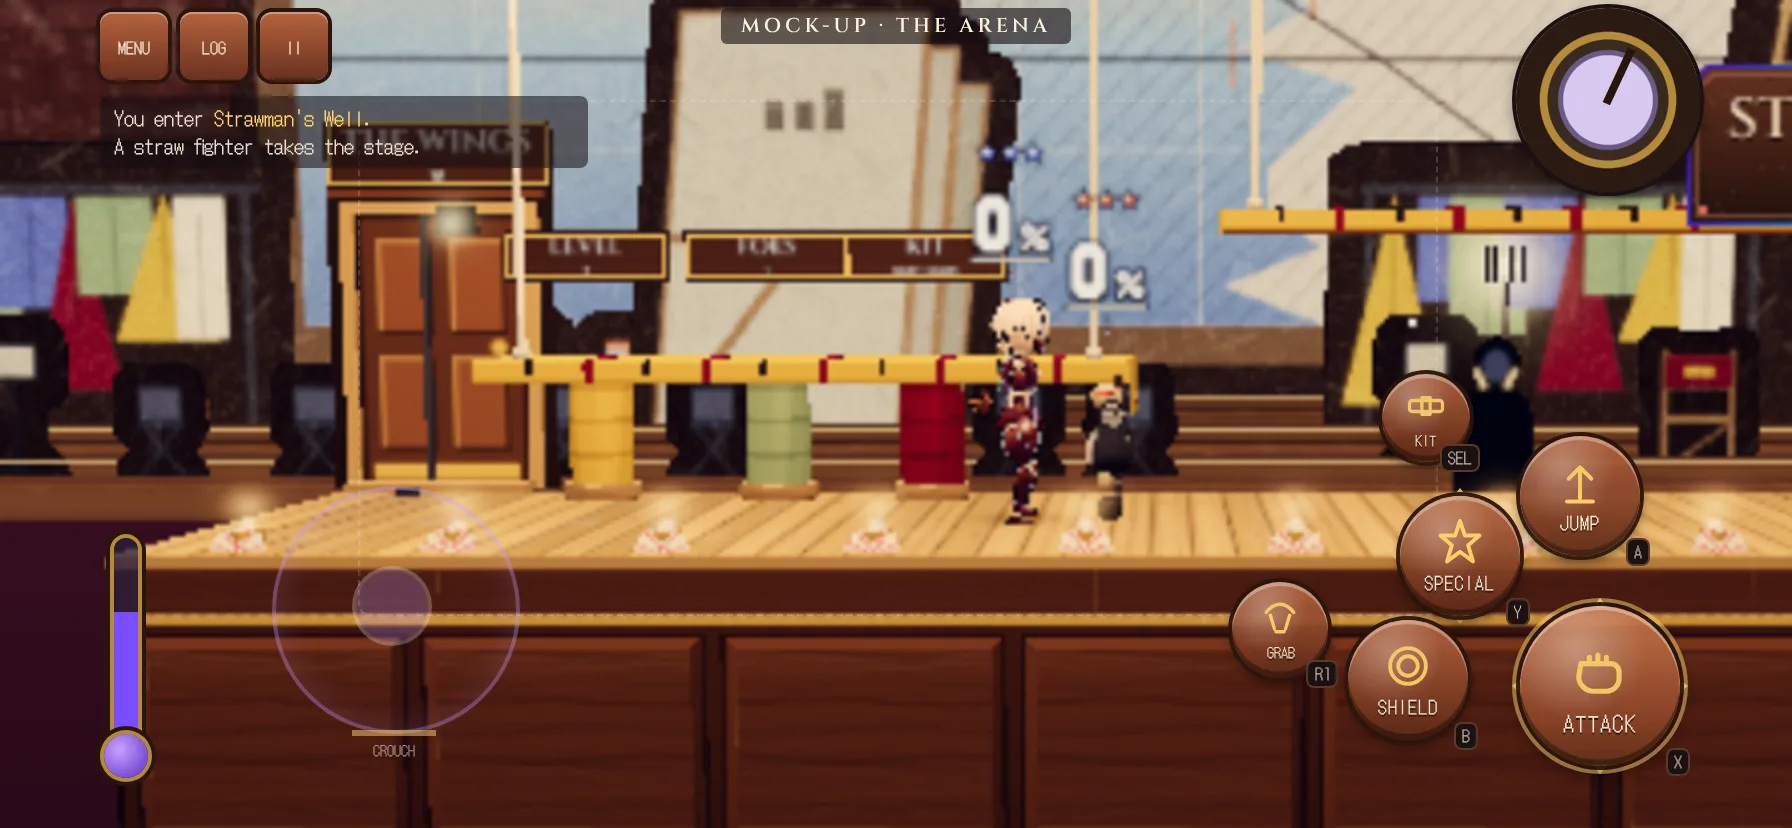
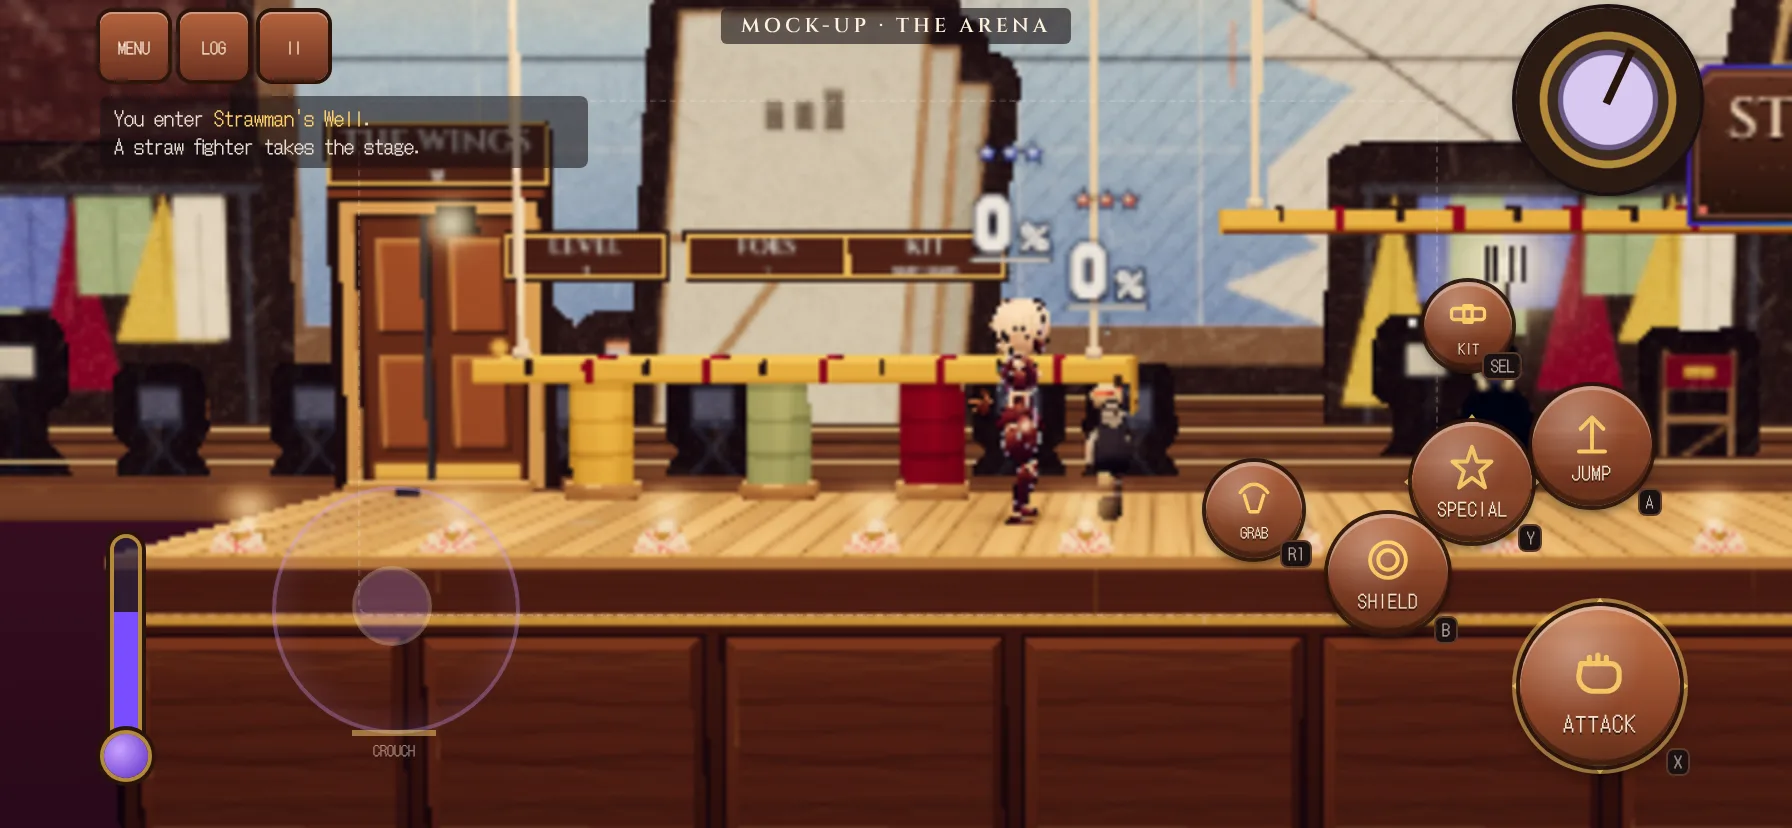
Touch mock-ups redrawn to South's rulings: CROUCH as G beside DASH in 3D, the stick's notch in the Arena, the meter at the arc's far end
Claude-Session: https://claude.ai/code/session_01XGT2M7FzmmweYqpDur2os6

Changed region(s): [[0.6562, 0.3321, 0.9375, 0.9058]]

diff --git a/docs/handoffs/dovina/2026-11-01-from-calissa-touch-arc.md b/docs/handoffs/dovina/2026-11-01-from-calissa-touch-arc.md
@@ -10,34 +10,27 @@ The backdrops are real frames. The tiles are drawn in the Clay dress, with each 
 **Yes to the skeleton.** One arc, relabelled and never moved, directional presses, no dead tiles: I'd build exactly that. My changes are
 to the geometry.
 
-## The arc's shape and sizes
+## The arc's shape and sizes (redrawn to South's rulings of 2026-11-01)
 
-Two rings round A, measured from A's centre. A's centre sits 52 px in from the right of the safe area and 50 px up from its bottom
-(802, 343 on a 896 x 414 iPhone).
+The arc is two rings round A, measured from A's centre. A's centre sits 52 px in from the safe area's right edge and 50 px up from its
+bottom: (802, 343) on a 896 x 414 iPhone.
 
 | ring | slot | size (px) | radius (px) | angle |
 |---|---|---|---|---|
-| — | **A** | 80 | 0 | (the corner) |
-| inner: the verbs a fight mashes | **B** | 60 | 96 | 178° (left: the thumb slides) |
-| inner | **D** | 60 | 96 | 137° (the diagonal: the easiest reach after A, so the second weapon verb gets it) |
-| inner | **C** | 60 | 96 | 96° (up: the thumb flicks) |
-| outer: the deliberate verbs | **E** | 48 | 162 | 170° |
-| outer | **PICK** | 44 | 160 | 147° |
-| outer | **BELT** | 44 | 160 | 123° |
-| outer | **F** (the meter) | 54 | 166 | 99° |
+| (the corner) | **A** | 80 | | |
+| inner | **G** CROUCH (3D only) | 60 | 120 | 183° (the inner end, beside B) |
+| inner | **B** | 60 | 120 | 152° |
+| inner | **D** | 60 | 120 | 122° (the diagonal: the easiest reach after A, so the second weapon verb has it) |
+| inner | **C** | 60 | 120 | 92° (up: the thumb flicks to it) |
+| outer | **F** the meter | 54 | 196 | 176° (the far end, as ruled; ringed, gold when full) |
+| outer | **E** | 48 | 194 | 153° |
+| outer | **PICK** | 44 | 192 | 131° |
+| outer | **BELT** | 44 | 192 | 110° |
 
-In units of su (1 su = 4.14 px here): A 19, inner 14.5, outer 11.5; the rings at 23 and 39.
-
-Why two rings: a mashing thumb lives inside the inner ring. The outer ring takes a reach, so a swap, a pick or an art is never pressed
-by accident in a flurry.
-
-## Where the meter slot sits
-
-**At the top of the outer ring, over C.** I'd move it there from the far end, for two reasons:
-- **The eye:** a full meter is a moment, and the top of the arc is where the eye meets it (Genshin's and Zenless's ult).
-- **The thumb:** the far-left end is where the thumb sweeps when it dodges off B, so an art would go off by mistake there.
-
-The meter's ring is the slot's rim: violet as it fills, gold and glowing when full (see `tool.webp`).
+- **The inner ring** holds what a fight presses over and over. **The outer ring** holds the deliberate presses, so a swap, a pick or an
+  art never goes off in a flurry.
+- **Why the inner radius grew from 96 to 120:** with G added, four 60 px tiles 30° apart need it to keep from touching.
+- **In the Arena, G is not drawn.** There the stick's ring carries a gold notch: crouch is the stick pushed down.
 
 ## Smaller points
 
